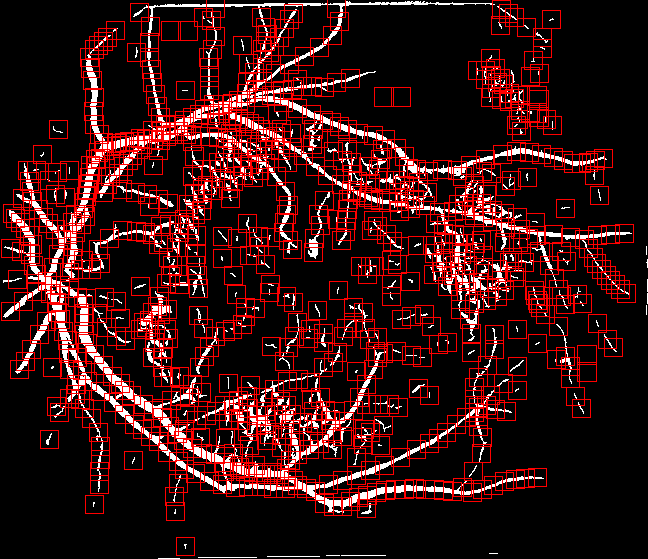
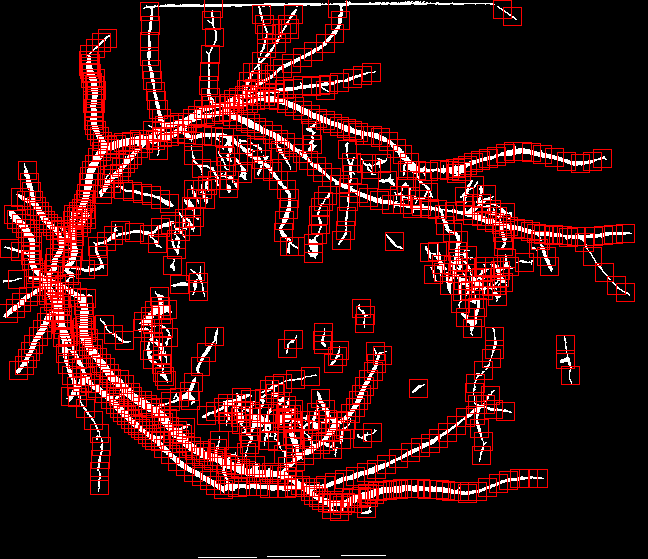
add bbox marking

diff --git a/code/new_mkgraph_method.py b/code/new_mkgraph_method.py
@@ -21,6 +21,7 @@ import torch
 from data_handeler import RetinalDataset
 import datetime
 from operator import attrgetter
+import networkx as nx
 
 hrf_0 = RetinalDataset('STARE').all_data[5]
 pred = hrf_0.pred
@@ -60,10 +61,11 @@ for region in large_slic_regions:
     io.imsave(f'{region.label}.png', img_as_ubyte(region.image))
 # In[]
 
-def get_nodes_from_pred(pred, params = {'threshold': 'min', 'neg_iso_size': 6, 'n_slic_pieces': 500}, verbose = True):
+def get_bboxes_from_pred(pred, params = {'threshold': 'otsu', 'neg_iso_size': 32, 'n_slic_pieces': 800}, verbose = True):
+    # larger neg_iso_size, less node, other params don't matter a lot
     assert pred.dtype == np.uint8
-    if params['threshold'] == 'min':
-        threshold = threshold_minimum(pred)
+    if params['threshold'] == 'otsu':
+        threshold = threshold_otsu(pred)
     certain_pred = pred >= threshold
     certain_pred = remove_small_objects(certain_pred, min_size = params['neg_iso_size'])
     
@@ -75,7 +77,7 @@ def get_nodes_from_pred(pred, params = {'threshold': 'min', 'neg_iso_size': 6, '
     
     large_isos = certain_pred.copy()
     for x in small_iso_bboxes: large_isos[x[0]:x[2], x[1]:x[3]] = 0
-    slic_label = slic(large_isos, 500, mask = large_isos, enforce_connectivity = False, compactness = 100)
+    slic_label = slic(large_isos, params['n_slic_pieces'], mask = large_isos, enforce_connectivity = False, compactness = 100)
     slic_regions = regionprops(slic_label)
     
     for x in slic_regions:
@@ -111,6 +113,7 @@ def get_nodes_from_pred(pred, params = {'threshold': 'min', 'neg_iso_size': 6, '
         small_bboxes += sub_bboxes
     # remove bboxes out of range    
     small_bboxes = list(filter(lambda x: (x[0]>=0) and (x[1]>=0) and(x[2]<=pred.shape[0]) and (x[3]<=pred.shape[1]), small_bboxes))
+    small_bboxes = list(filter(lambda x: certain_pred[x[0]:x[2], x[1]:x[3]].sum() > 0, small_bboxes))
     if verbose : print('number of bboxes: ', len(small_bboxes))
     return small_bboxes, certain_pred
 
@@ -122,23 +125,62 @@ def bbox_vis(bboxes, background, save_dir):
         draw.set_color(background, (rr, cc), color = (255,0,0))
     io.imsave(save_dir, img_as_ubyte(background))    
 
-hrf = RetinalDataset('STARE').all_data
-for data in hrf:
+datas = RetinalDataset('STARE').all_data
+for data in datas:
     pred = data.pred
     mask = data.fov_mask.astype(bool)
     pred = pred * mask
-    bboxes, certain_pred = get_nodes_from_pred(pred)
+    bboxes, certain_pred = get_bboxes_from_pred(pred)
     bbox_vis(bboxes, np.stack([certain_pred]*3, axis = -1), save_dir = f'{data.ID}_bbox_vis.png')
     bbox_sizes = [(x[2] - x[0], x[3] - x[1]) for x in bboxes]
 
 
 
+params_for_stare = {'threshold': 'otsu', 'neg_iso_size': 16, 'n_slic_pieces': 500}
+params_for_drive = {'threshold': 'otsu', 'neg_iso_size': 16, 'n_slic_pieces': 500}
 
 
+# In[]
+
+def add_edges(bboxes, narrow = 100, n_links = 2):
+    assert narrow < 256, 'param narrow is too large'
+    centers = [(i, x[0] + 8, x[1] + 8) for i, x in enumerate(bboxes)]
+
+    graph = nx.Graph()
+    
+    for i, x in enumerate(bboxes):
+        graph.add_node(centers[i][0], center = (centers[i][1], centers[i][2]), bbox = x)
+        
+    for node in graph.nodes:
+        node_x, node_y = graph.nodes[node]['center']
+        neighbors = list(filter(lambda x: (abs(node_x - x[1]) < narrow) and (abs(node_y - x[2]) < narrow) and (node != x[0]), centers))
+
+        X = np.array([neighbor[1] for neighbor in neighbors], dtype = np.uint16)
+        Y = np.array([neighbor[2] for neighbor in neighbors], dtype = np.uint16)
+        DST = (X - node_x) ** 2 + (Y - node_y) ** 2
+        rank = np.argsort(DST)
+        targets = [neighbors[idx][0] for idx in rank[:min(n_links, len(neighbors))]]
+
+        edges = [(node, target) for target in targets] 
+        graph.add_edges_from(edges)
+        
+    return graph    
+
+def vis_graph(graph, background):
+    for edge in graph.edges:
+        start, end = edge
+        r0, c0 = graph.nodes[start]['center']
+        r1, c1 = graph.nodes[end]['center']
+        rr,cc = draw.line(r0, c0, r1, c1)
+        draw.set_color(background, (rr, cc), color = (255,0,0))
+    io.imsave('graph_vis.png', img_as_ubyte(background))    
+
+graph = add_edges(bboxes)        
+vis_graph(graph,  np.stack([certain_pred]*3, axis = -1))
 
 
-
-
+print(graph)
+print(nx.number_connected_components(graph))        
 
 
 
